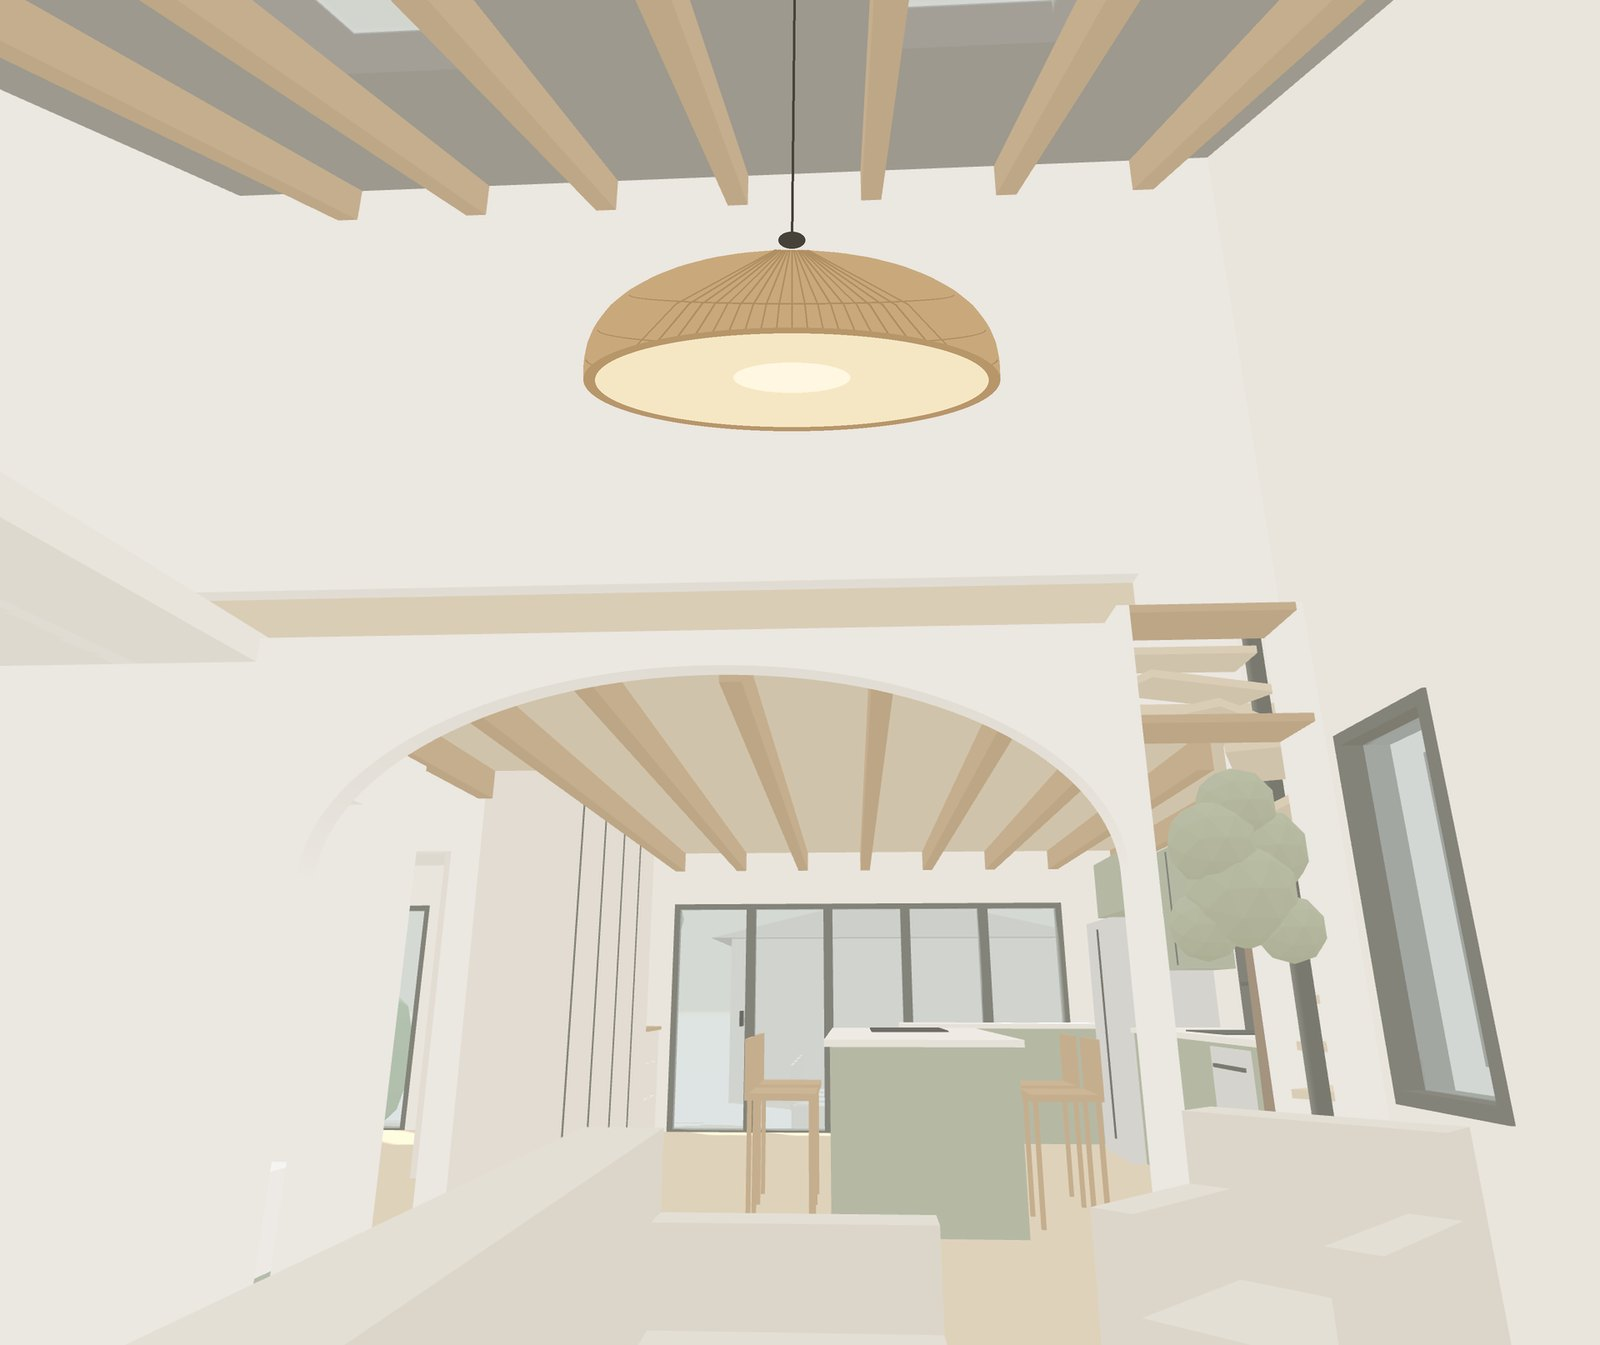
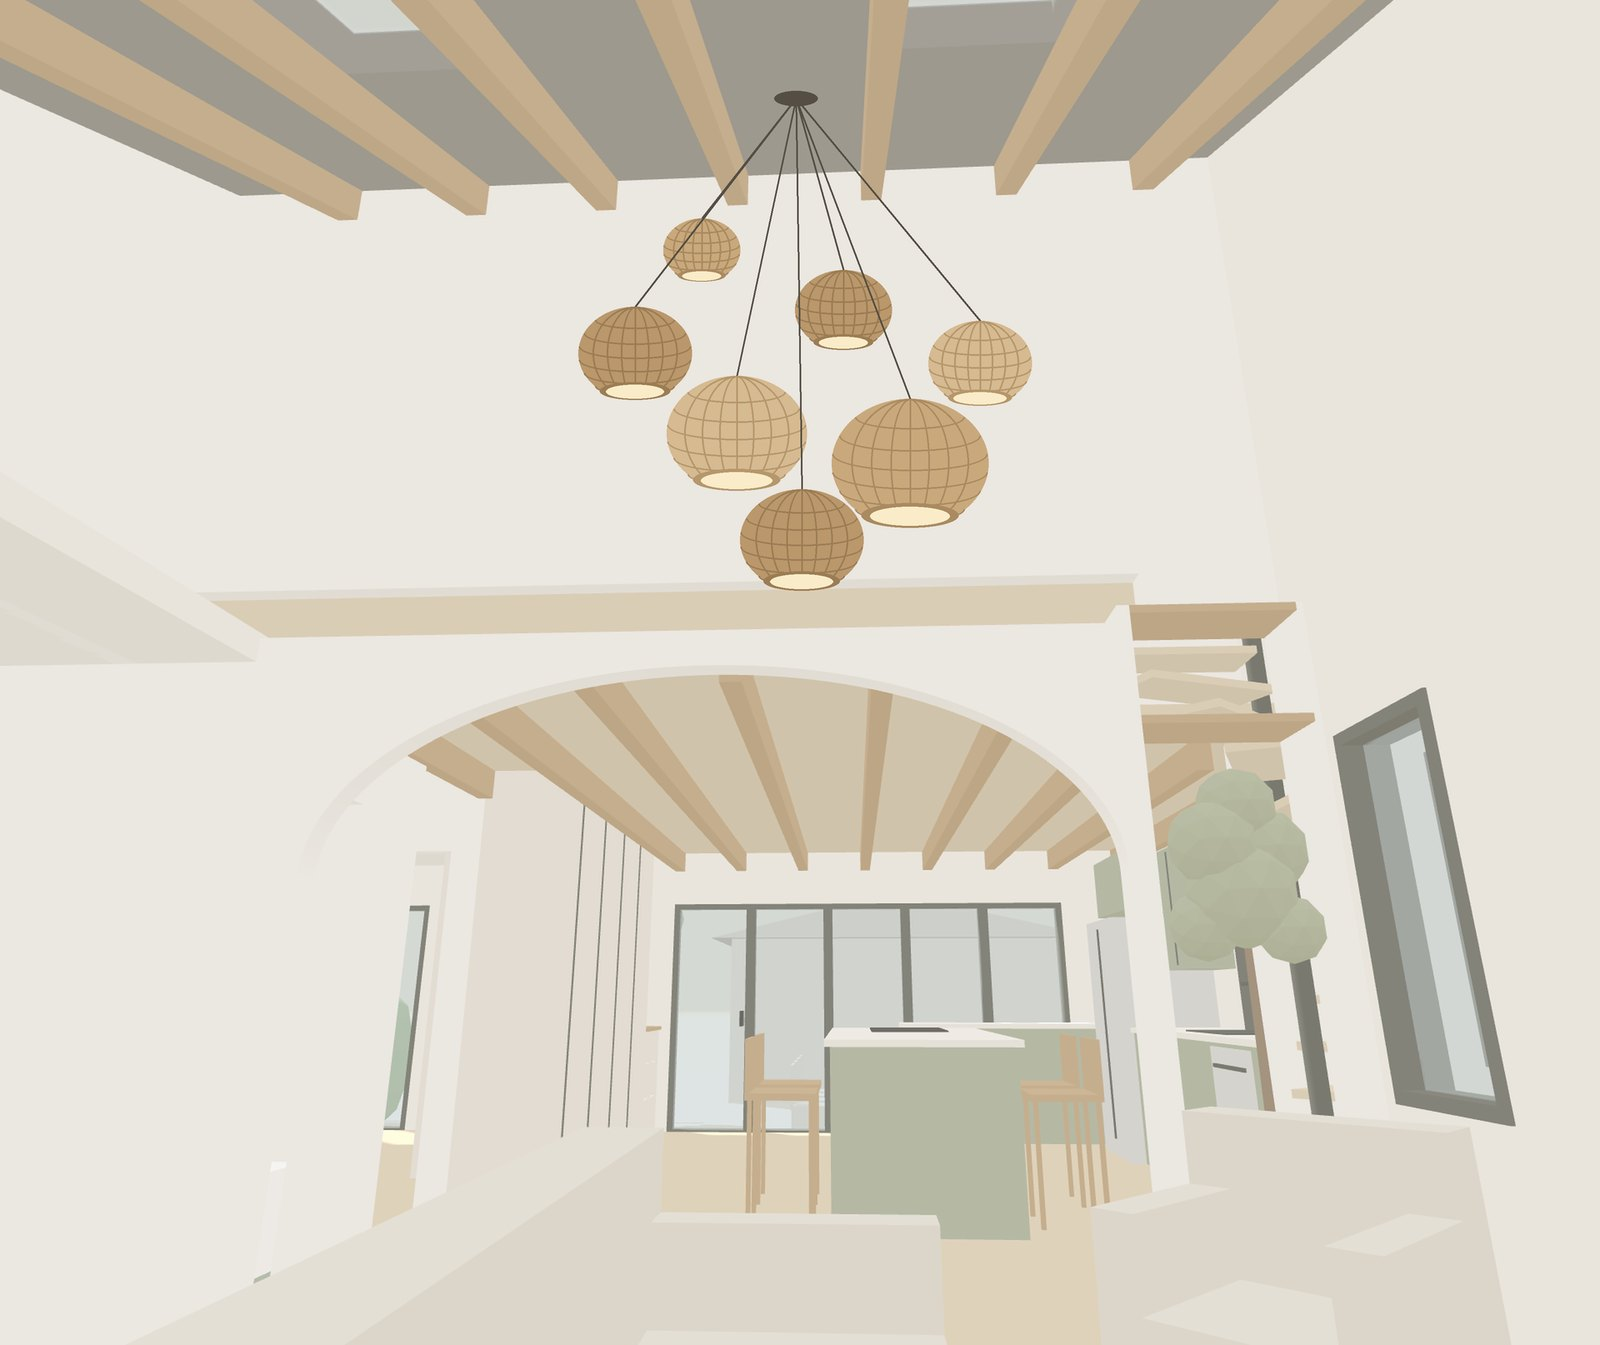
Design proposal 1: pendant cluster and stone texture mock-ups with references
Claude-Session: https://claude.ai/code/session_01UDwAKLpnEsyUD1c52cHnA6

Changed region(s): [[0.3438, 0.0625, 0.6562, 0.4372]]

diff --git a/studio/brookandevan/designproposal1/index.html b/studio/brookandevan/designproposal1/index.html
@@ -97,6 +97,7 @@ td small{display:block;font-size:14.5px;color:var(--muted);margin-top:6px;max-wi
 .mockups figure{margin:0;width:100%}
 .mockups img{width:100%}
 .mockups figcaption{margin-top:10px}
+.mockups .ref{margin-top:28px;max-width:260px}
 
 .jumps{display:flex;flex-wrap:wrap;gap:10px;margin:40px 0 0}
 .jumps a{text-decoration:none}
@@ -401,11 +402,15 @@ footer .wrap{display:flex;justify-content:space-between;gap:20px;flex-wrap:wrap}
         <div>
           <div class="label">Choice 1</div>
           <h3>A lighting fixture</h3>
-          <p>A statement light hung in the height of the room, in front of the wall.</p>
+          <p>A cluster of woven pendants hung at different heights from one point, filling the height of the room in front of the wall.</p>
+          <figure class="ref">
+            <img src="img/ref-pendant-cluster.jpg" alt="A tall room with a cluster of woven pendant lights hanging at different heights over a dining table." width="230" height="410" loading="lazy">
+            <figcaption class="label">Reference for the light</figcaption>
+          </figure>
         </div>
         <figure>
-          <img src="img/living-choice-light.jpg" alt="Mock-up of the living room with a large woven pendant light hanging in front of the wall above the archway." width="1600" height="1345" loading="lazy">
-          <figcaption class="label">Mock-up, shown with a large woven pendant</figcaption>
+          <img src="img/living-choice-light.jpg" alt="Mock-up of the living room with a cluster of woven pendant lights hanging at different heights in front of the wall above the archway." width="1600" height="1345" loading="lazy">
+          <figcaption class="label">Mock-up, a cluster of woven pendants</figcaption>
         </figure>
       </li>
       <li>
@@ -423,15 +428,19 @@ footer .wrap{display:flex;justify-content:space-between;gap:20px;flex-wrap:wrap}
         <div>
           <div class="label">Choice 3</div>
           <h3>A textured wall</h3>
-          <p>The wall below the ceiling is given a texture of its own, so the surface itself is the feature.</p>
+          <p>Rough, limewashed stone on the wall below the ceiling, carried over the archway and down both sides, so the surface itself is the feature.</p>
+          <figure class="ref">
+            <img src="img/ref-stone-wall.jpg" alt="A rough limewashed stone wall with a long wood shelf, ceramic vases and exposed beams." width="652" height="1164" loading="lazy">
+            <figcaption class="label">Reference for the texture</figcaption>
+          </figure>
         </div>
         <figure>
-          <img src="img/living-choice-texture.jpg" alt="Mock-up of the living room with a ribbed texture across the wall above the archway." width="1600" height="1345" loading="lazy">
-          <figcaption class="label">Mock-up, shown as ribbed plaster</figcaption>
+          <img src="img/living-choice-texture.jpg" alt="Mock-up of the living room with a rough stone texture on the wall above the archway and down both sides of it." width="1600" height="1345" loading="lazy">
+          <figcaption class="label">Mock-up, rough stone above and around the archway</figcaption>
         </figure>
       </li>
     </ul>
-    <p class="note">These are quick mock-ups on the model view to compare the three ideas. The fixture, artwork and texture shown are stand-ins, not selections.</p>
+    <p class="note">These are quick mock-ups on the model view to compare the three ideas. They show the idea, not final selections.</p>
   </section>
 
   <section id="bedroom">
